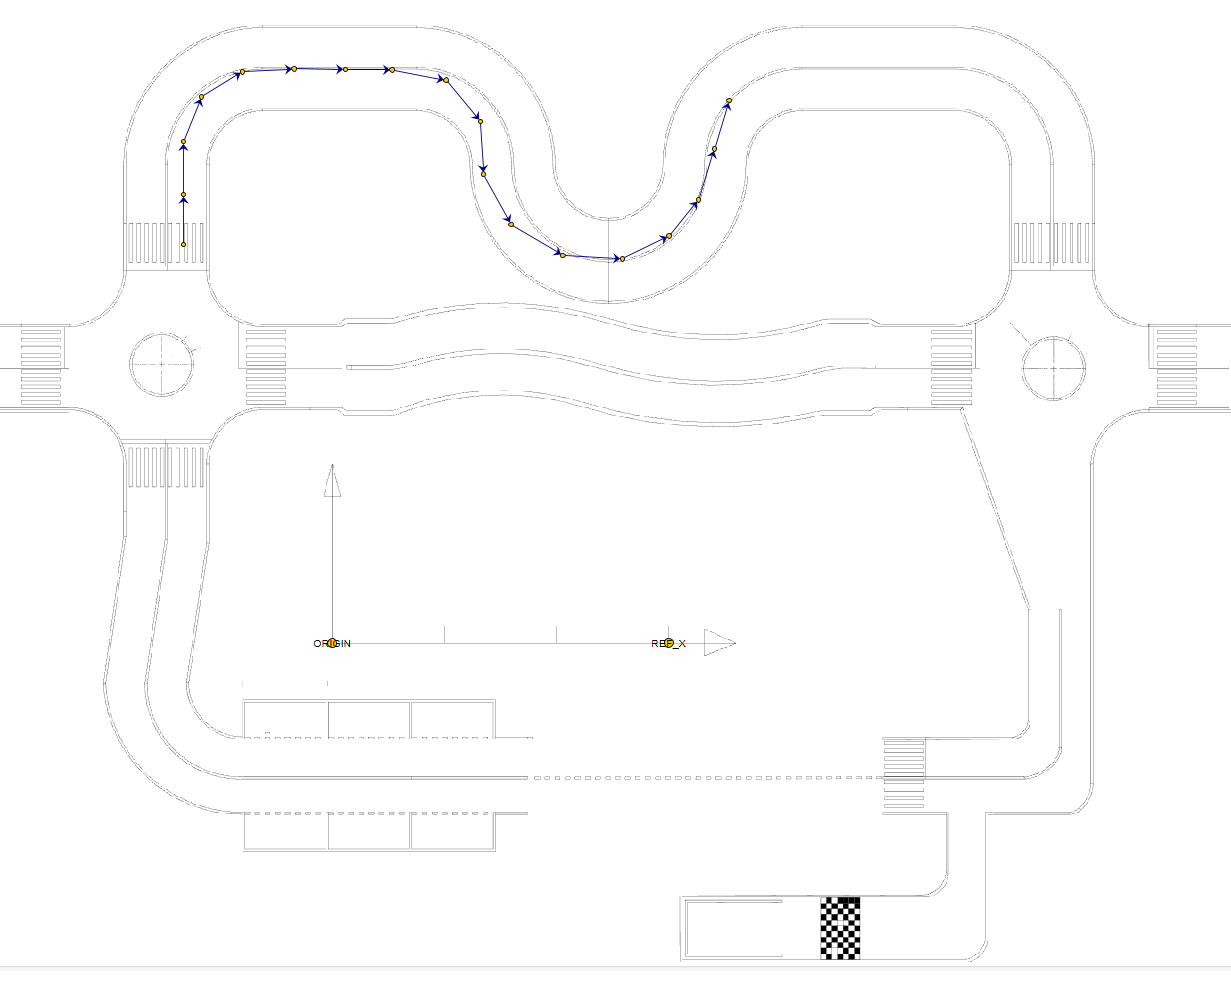
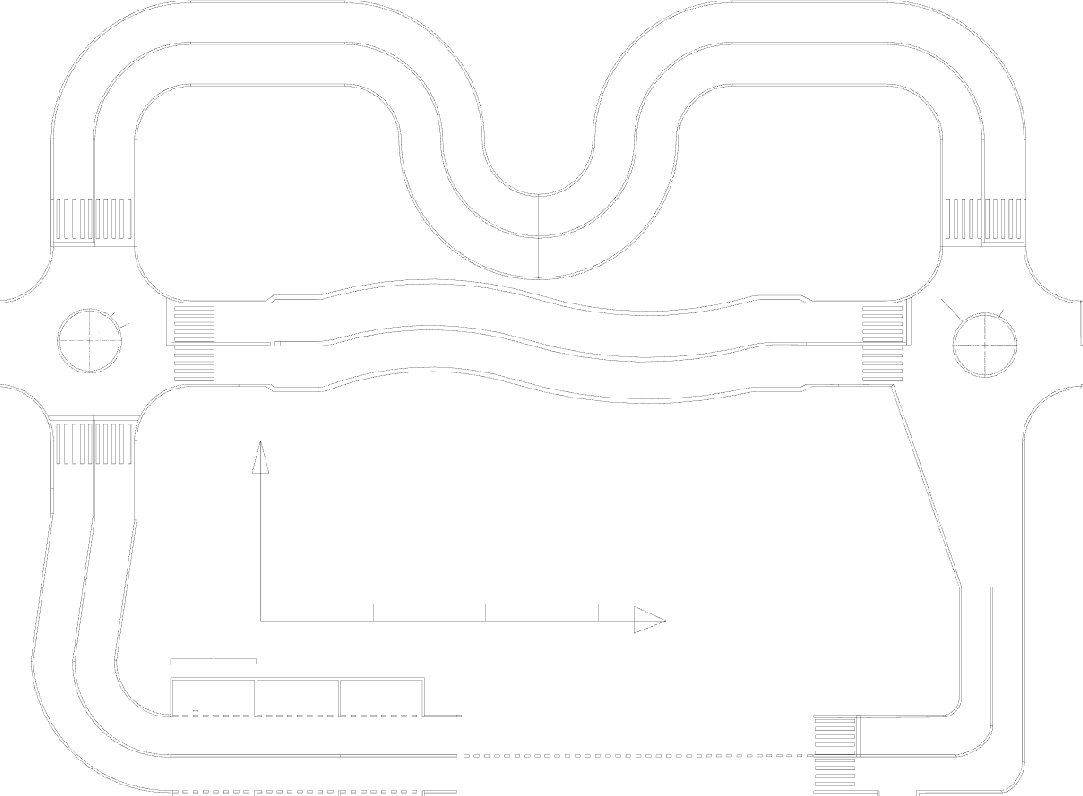
Thuật toán phát hiện khúc cua gắt (chưa test vì chưa có dữ liệu)

diff --git a/steering_safety.py b/steering_safety.py
@@ -1,0 +1,128 @@
+import xml.etree.ElementTree as ET
+import math
+import os
+
+# ================= CẤU HÌNH (QUAN TRỌNG) =================
+INPUT_FILE = "Competition_track_graphfake.graphml"  # File map đã convert sang mét
+WHEELBASE = 0.26          # Chiều dài trục cơ sở (mét) - ĐO XE THẬT RỒI SỬA SỐ NÀY
+MAX_STEERING_ANGLE = 25   # Góc lái tối đa (độ)
+
+# ================= HÀM TOÁN HỌC =================
+def calculate_radius(p1, p2, p3):
+    """Tính bán kính đường tròn đi qua 3 điểm (p1, p2, p3)"""
+    x1, y1 = p1['x'], p1['y']
+    x2, y2 = p2['x'], p2['y']
+    x3, y3 = p3['x'], p3['y']
+    
+    # Độ dài các cạnh tam giác
+    a = math.sqrt((x1-x2)**2 + (y1-y2)**2)
+    b = math.sqrt((x2-x3)**2 + (y2-y3)**2)
+    c = math.sqrt((x3-x1)**2 + (y3-y1)**2)
+    
+    # Diện tích tam giác (Heron)
+    s = (a + b + c) / 2
+    area = math.sqrt(max(0, s * (s - a) * (s - b) * (s - c))) # max(0,...) để tránh lỗi số học nhỏ
+    
+    if area < 1e-6: return float('inf') # 3 điểm thẳng hàng -> Bán kính vô cực
+    
+    # Bán kính R = abc / 4S
+    return (a * b * c) / (4 * area)
+
+def calculate_steering_angle(radius):
+    """Tính góc lái Ackerman từ bán kính: angle = arctan(L / R)"""
+    if radius == 0: return 90.0
+    angle_rad = math.atan(WHEELBASE / radius)
+    return math.degrees(angle_rad)
+
+# ================= HÀM XỬ LÝ CHÍNH =================
+def analyze_track():
+    if not os.path.exists(INPUT_FILE):
+        print(f"❌ Lỗi: Không tìm thấy file {INPUT_FILE}")
+        return
+
+    print(f"--- ĐANG ĐỌC FILE: {INPUT_FILE} ---")
+    tree = ET.parse(INPUT_FILE)
+    root = tree.getroot()
+    ns = {'g': 'http://graphml.graphdrawing.org/xmlns'}
+    
+    # 1. Đọc dữ liệu Nodes
+    nodes = {} # Lưu tạm: id -> {x, y}
+    for node in root.findall(".//g:node", ns):
+        nid = node.get('id')
+        x, y = 0.0, 0.0
+        # Tìm data d0 (x) và d1 (y)
+        for data in node.findall("g:data", ns):
+            key = data.get('key')
+            if key == 'd0': x = float(data.text)
+            if key == 'd1': y = float(data.text)
+        nodes[nid] = {'id': nid, 'x': x, 'y': y}
+
+    # 2. Sắp xếp lại thứ tự (Reconstruct Path)
+    # Vì graphml lưu lộn xộn, ta cần đi theo mũi tên edge
+    adj = {}
+    for edge in root.findall(".//g:edge", ns):
+        adj[edge.get('source')] = edge.get('target')
+
+    # Tìm điểm bắt đầu (Node 0)
+    # Giả sử node id="0" là bắt đầu, hoặc tìm node không có ai trỏ tới
+    # Với file output của code trước, node id chạy từ "0" -> "n"
+    sorted_nodes = []
+    curr_id = "0" 
+    
+    # Fallback: Nếu không tìm thấy node 0, tìm node đầu tiên trong danh sách
+    if curr_id not in nodes and len(nodes) > 0:
+        curr_id = list(nodes.keys())[0]
+
+    count = 0
+    while curr_id in nodes:
+        sorted_nodes.append(nodes[curr_id])
+        if curr_id in adj:
+            curr_id = adj[curr_id]
+        else:
+            break
+        
+        # Chống lặp vô tận
+        count += 1
+        if count > len(nodes) + 10: break
+
+    print(f"-> Đã load {len(sorted_nodes)} nodes theo thứ tự đường đi.")
+    
+    # 3. QUÉT GÓC LÁI (Scan)
+    print(f"\n--- BẮT ĐẦU KIỂM TRA (Max {MAX_STEERING_ANGLE} độ, Wheelbase {WHEELBASE}m) ---")
+    violations = []
+    
+    # Duyệt qua từng bộ 3 điểm
+    for i in range(1, len(sorted_nodes) - 1):
+        p1 = sorted_nodes[i-1]
+        p2 = sorted_nodes[i]   # Node khúc cua
+        p3 = sorted_nodes[i+1]
+        
+        R = calculate_radius(p1, p2, p3)
+        angle = calculate_steering_angle(R)
+        
+        if angle > MAX_STEERING_ANGLE:
+            violations.append({
+                'node_ids': f"{p1['id']} -> {p2['id']} -> {p3['id']}",
+                'center_node': p2['id'],
+                'angle': angle,
+                'radius': R
+            })
+
+    # 4. XUẤT BÁO CÁO
+    if len(violations) == 0:
+        print("\n✅ TUYỆT VỜI! Không phát hiện khúc cua nào quá gắt.")
+    else:
+        print(f"\n⚠ CẢNH BÁO: Phát hiện {len(violations)} điểm cua gắt!")
+        print("-" * 60)
+        print(f"{'BỘ NODE (Trước -> Giữa -> Sau)':<30} | {'GÓC LÁI':<10} | {'BÁN KÍNH':<10}")
+        print("-" * 60)
+        
+        for v in violations:
+            print(f"{v['node_ids']:<30} | {v['angle']:.2f}°    | {v['radius']:.3f} m")
+        
+        print("-" * 60)
+        print("💡 GIẢI PHÁP: Hãy vào yEd, tìm các node ID ở cột 'Giữa'.")
+        print("   Kéo chúng ra xa nhau hoặc làm đường cong rộng hơn.")
+
+if __name__ == "__main__":
+    analyze_track()

diff --git a/SANDBOX2.py b/SANDBOX2.py
@@ -5,6 +5,7 @@ from matplotlib.widgets import Slider, Button
 import os
 
 # --- CẤU HÌNH FILE ---
+# Đảm bảo file Sahinh.png đã được cắt sát viền!
 GRAPH_FILE = "Competition_track_graphfake.graphml"
 IMG_FILE = "Sahinh.png"
 
@@ -24,62 +25,65 @@ for n, data in G.nodes(data=True):
     all_x.append(x)
     all_y.append(y)
 
-# Tính tâm của đồ thị
-center_x = (min(all_x) + max(all_x)) / 2
-center_y = (min(all_y) + max(all_y)) / 2
+# Tính toán khung bao (Bounding Box) của các node
+min_x, max_x = min(all_x), max(all_x)
+min_y, max_y = min(all_y), max(all_y)
 
-# === [SỬA ĐOẠN NÀY] ===
-# Thay vì lấy width/height riêng, ta lấy cạnh lớn nhất để đảm bảo khung ảnh VUÔNG
-# (Giả sử ảnh Sahinh.png của bạn là hình vuông hoặc gần vuông)
-raw_width = max(all_x) - min(all_x)
-raw_height = max(all_y) - min(all_y)
-max_dim = max(raw_width, raw_height) 
+# Tâm của hệ thống node
+center_x = (min_x + max_x) / 2
+center_y = (min_y + max_y) / 2
 
-base_width = max_dim
-base_height = max_dim 
-# ======================
+# Chiều rộng và chiều cao thực tế của hệ thống node
+# (Nếu ảnh cắt chuẩn, tỷ lệ width/height này sẽ khớp với tỷ lệ ảnh)
+base_width = max_x - min_x
+base_height = max_y - min_y
+
+print(f"Kích thước thực tế của track: Rộng {base_width:.2f}m x Cao {base_height:.2f}m")
 
 img = mpimg.imread(IMG_FILE)
 
 # --- THIẾT LẬP GIAO DIỆN ---
-fig, ax = plt.subplots(figsize=(14, 8))
+fig, ax = plt.subplots(figsize=(12, 8)) # Tăng size cửa sổ cho dễ nhìn
 plt.subplots_adjust(left=0.1, bottom=0.35) 
 
 # Vẽ Graph
-nx.draw_networkx_nodes(G, pos, ax=ax, node_size=10, node_color='red')
+nx.draw_networkx_nodes(G, pos, ax=ax, node_size=15, node_color='red')
 
 # Vẽ ảnh nền ban đầu
-initial_scale = 1.45 
+initial_scale = 1.1 # Bắt đầu với scale nhỏ hơn vì ảnh đã cắt sát
 initial_dx = 0
 initial_dy = 0
 
 def calculate_extent(scale, dx, dy):
-    new_w = base_width * scale
-    new_h = base_height * scale
+    # Tính toán kích thước hiển thị dựa trên scale
+    current_w = base_width * scale
+    current_h = base_height * scale
     
+    # Tính toán tâm mới sau khi dịch chuyển
     cx = center_x + dx
     cy = center_y + dy
     
-    return [cx - new_w/2, cx + new_w/2, cy - new_h/2, cy + new_h/2]
+    # Trả về [left, right, bottom, top]
+    return [cx - current_w/2, cx + current_w/2, cy - current_h/2, cy + current_h/2]
 
-# === [SỬA TIẾP ĐOẠN NÀY] ===
-# Đổi aspect='auto' thành 'equal' để 1 mét ngang = 1 mét dọc (không bị méo)
-img_obj = ax.imshow(img, extent=calculate_extent(initial_scale, 0, 0), aspect='equal', alpha=0.7)
-# ===========================
+# QUAN TRỌNG: Dùng aspect='equal' để không bị méo hình
+img_obj = ax.imshow(img, extent=calculate_extent(initial_scale, 0, 0), aspect='equal', alpha=0.6)
 
 ax.set_title("KÉO THANH TRƯỢT ĐỂ CHỈNH - SAU ĐÓ COPY SỐ Ở DƯỚI")
+ax.grid(True, linestyle='--', alpha=0.5) # Thêm lưới cho dễ căn
 
 # --- TẠO CÁC THANH TRƯỢT (SLIDERS) ---
 axcolor = 'lightgoldenrodyellow'
 
 ax_scale = plt.axes([0.2, 0.2, 0.6, 0.03], facecolor=axcolor)
-s_scale = Slider(ax_scale, 'Độ Phóng (Scale)', 0.1, 10.0, valinit=initial_scale, valstep=0.01)
+# Scale cho phép nhỏ hơn 1 tí để thu hình nếu cần
+s_scale = Slider(ax_scale, 'Độ Phóng (Scale)', 0.5, 5.0, valinit=initial_scale, valstep=0.01)
 
 ax_dx = plt.axes([0.2, 0.15, 0.6, 0.03], facecolor=axcolor)
-s_dx = Slider(ax_dx, 'Dịch Ngang (X)', -50.0, 50.0, valinit=0, valstep=0.1)
+s_dx = Slider(ax_dx, 'Dịch Ngang (X)', -20.0, 20.0, valinit=0, valstep=0.05)
 
 ax_dy = plt.axes([0.2, 0.1, 0.6, 0.03], facecolor=axcolor)
-s_dy = Slider(ax_dy, 'Dịch Dọc (Y)', -50.0, 50.0, valinit=0, valstep=0.1)
+s_dy = Slider(ax_dy, 'Dịch Dọc (Y)', -20.0, 20.0, valinit=0, valstep=0.05)
 
 # --- HÀM CẬP NHẬT KHI KÉO ---
 def update(val):
@@ -103,8 +107,8 @@ button = Button(resetax, 'In Tọa Độ', color=axcolor, hovercolor='0.975')
 def print_result(event):
     ext = calculate_extent(s_scale.val, s_dx.val, s_dy.val)
     print("\n" + "="*40)
-    print("Bộ số cần tìm:")
-    print(f"MY_EXTENT = [{ext[0]:.4f}, {ext[1]:.4f}, {ext[2]:.4f}, {ext[3]:.4f}]")
+    print("Bộ số cần tìm (MY_EXTENT):")
+    print(f"[{ext[0]:.4f}, {ext[1]:.4f}, {ext[2]:.4f}, {ext[3]:.4f}]")
     print("="*40 + "\n")
 
 button.on_clicked(print_result)

diff --git a/extract_nodes.py b/extract_nodes.py
@@ -1,13 +1,13 @@
 import xml.etree.ElementTree as ET
-import xml.dom.minidom  # <--- Thêm thư viện này để format đẹp
+import xml.dom.minidom  
 import math
 
-# ================= CẤU HÌNH =================
+
 INPUT_FILE = "BFMC_Track_graph.graphml"        
 OUTPUT_FILE = "Competition_track_graphfake.graphml" 
 REAL_DISTANCE = 3                           
 
-# ================= HÀM XỬ LÝ =================
+
 
 def read_and_convert():
     print(f"--- Đang đọc file {INPUT_FILE}... ---")
